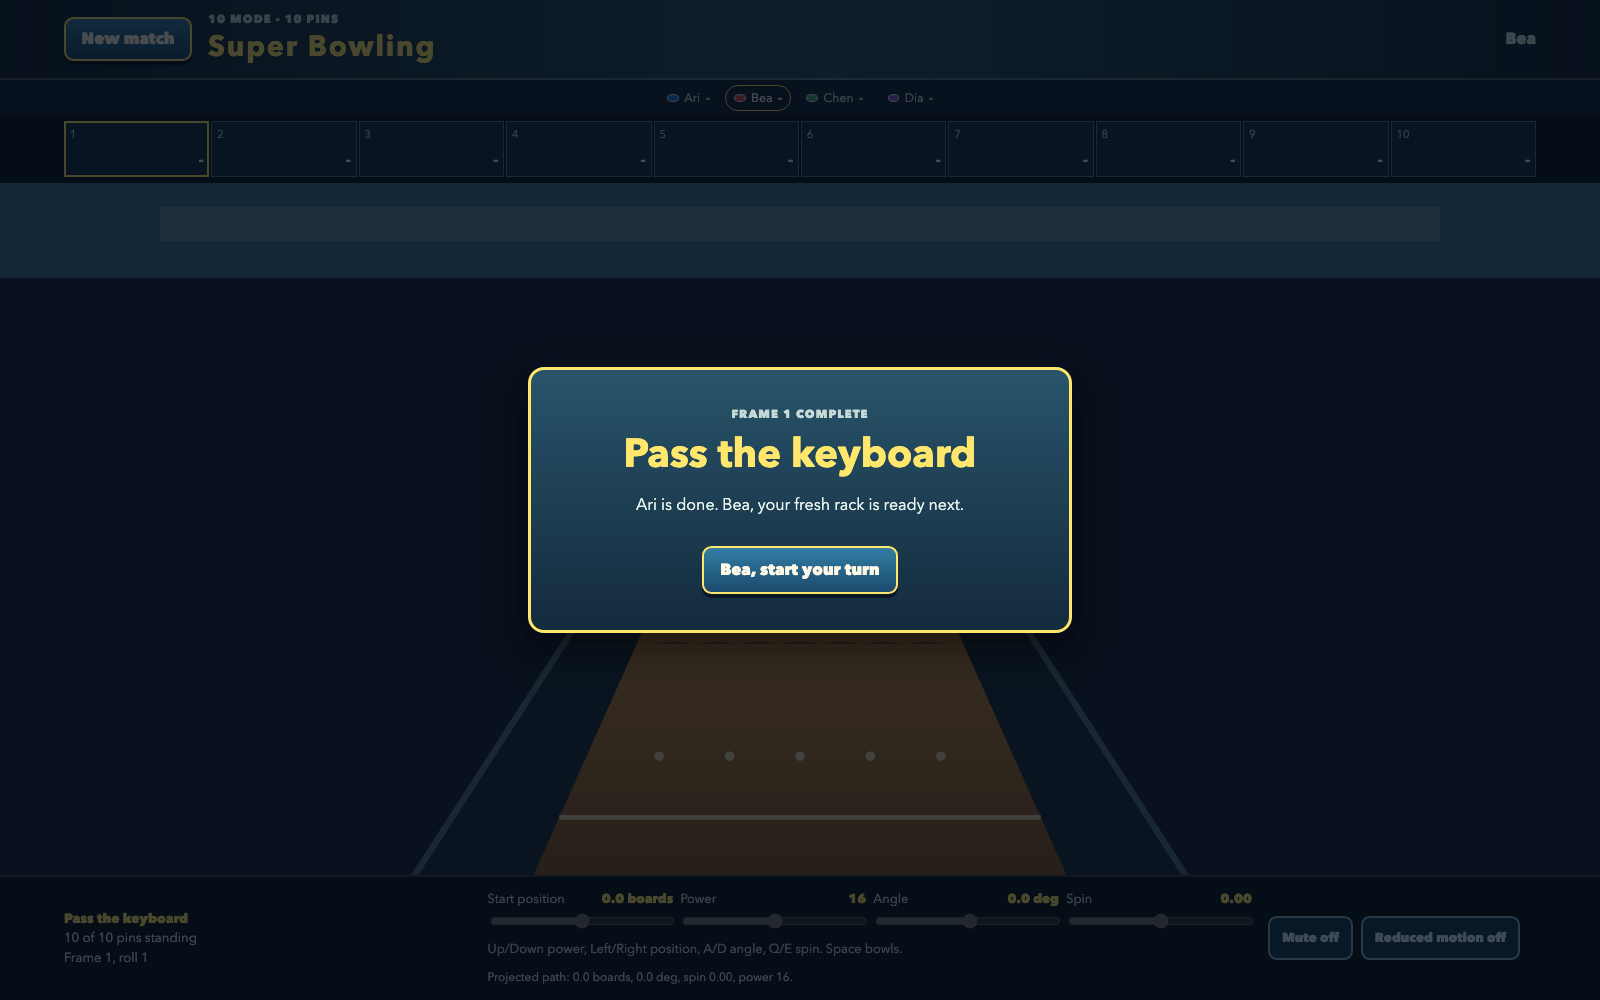
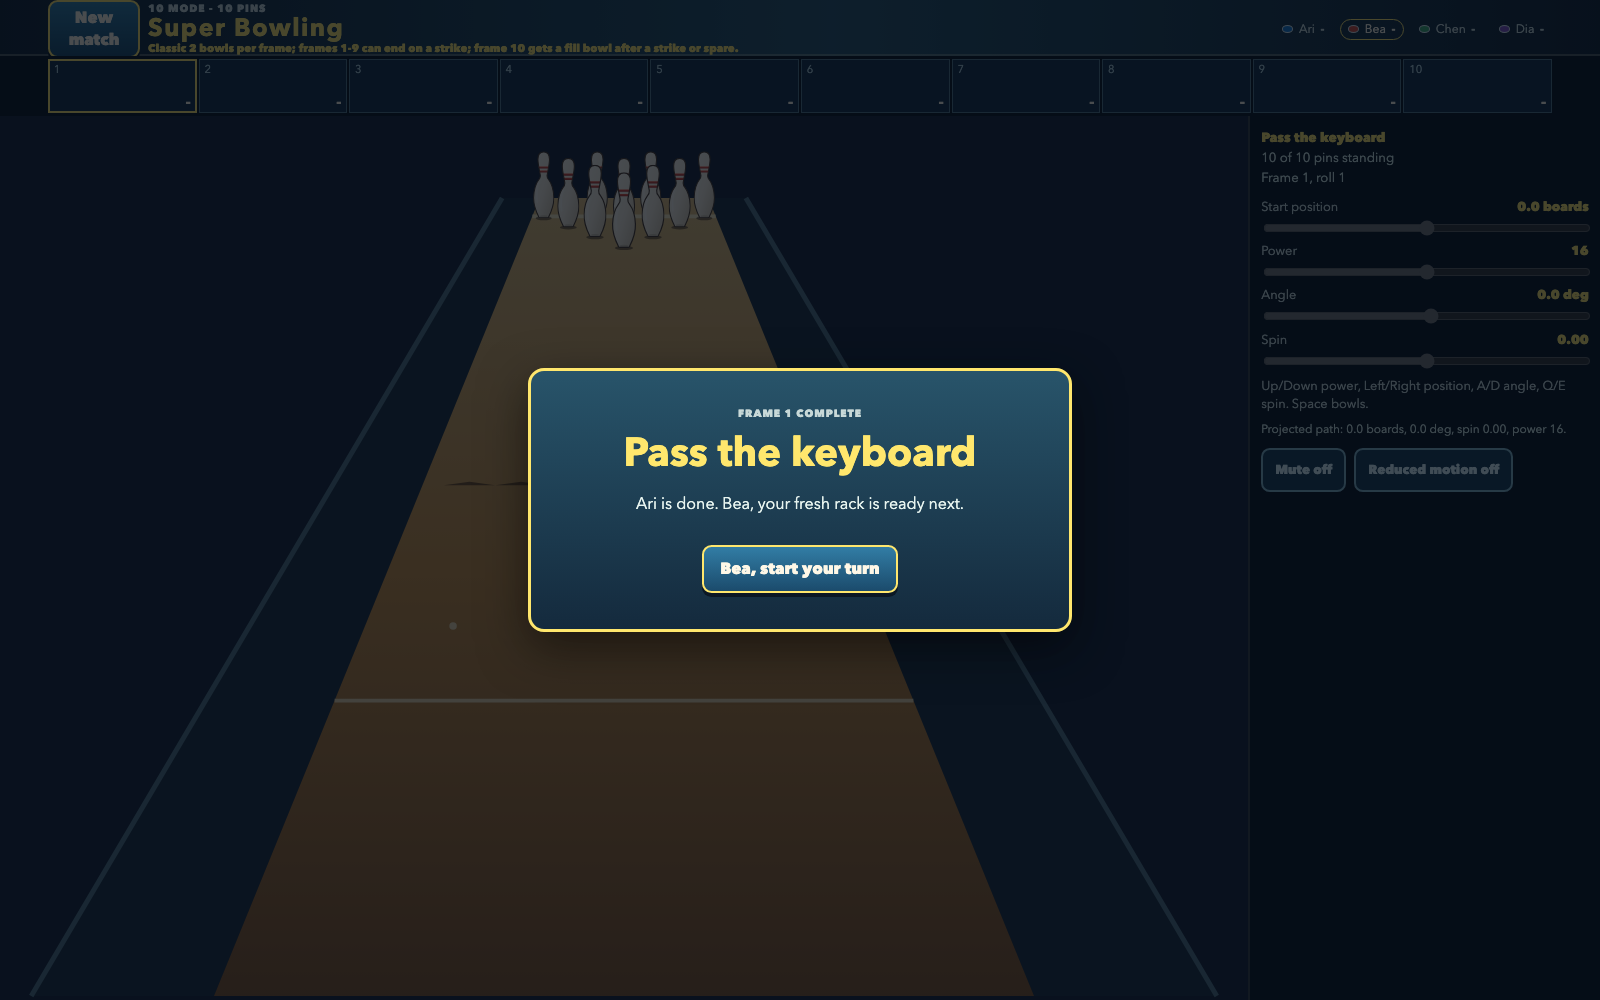
Refreshed both managed README screenshots from the shipped ... (+1 more)
- Refreshed both managed README screenshots from the shipped 1600 x 1000 browser
  build. The 990-pin aiming view and four-player handoff now show the accepted side-control layout ...
- Regenerated the managed documentation PNGs with
  `./devel/capture_screenshots.sh --documentation`; both are 1600 x 1000 and under the 1 MB documen...

diff --git a/docs/active_plans/ancient-shimmying-adleman.md b/docs/active_plans/ancient-shimmying-adleman.md
@@ -1329,3 +1329,23 @@ decisions are recorded for audit, not reopened as executable rules.
 
 Every scope question this plan raised is now classified as in scope or as a non-goal. Nothing is
 left open for a human to resolve before dispatch.
+
+## Implementation close-out (2026-08-02)
+
+All implementation milestones are complete. This plan remains in `docs/active_plans/` by current
+direction; it has not been archived or moved.
+
+| Milestone | Completed outcome | Verified evidence |
+| --- | --- | --- |
+| M3 | Frozen physics evidence reconciled without retuning. | The 990 report hashes match regenerated backstop-probe and benchmark artifacts; the 990 ball is 40 lb, supports power 60 and spin 4, and its contact-gated forward drive/anti-stall reaches the backstop. |
+| M4 | The desktop layout is frozen at 116 px of header-plus-score chrome. Controls occupy a desktop side panel, leaving a 1248 x 884 lane canvas at 1600 x 1000. | The selected `open` camera profile uses a measured 10% rear-row reveal (90% overlap). Complete-rack framing places the rack crown at 4%, aiming-ball bottom at 95%, and the lane+rack+ball span at 91%. |
+| M5 | The selected camera remains invariant through the final 10-, 105-, and 990-pin aiming, mid-roll, and settled-result captures. | All nine captures retain the 1248 x 884 canvas, 4%/95% anchors, 91% occupied span, and 10% reveal. Independent screenshot reviews accepted composition, large-rack readability, orientation, and settled-result state semantics. |
+| M6 | Fallen pins use crown-up visual canonicalization without changing truthful physics axes. | A real settled-pin integration test verifies finite canonical axes, preserved undirected axis, and no render-side mutation; independent final orientation review found no upside-down final pin. |
+| M7 | `bowls_per_frame` is a persistent bounded match setting from 1 through 5. | B=2 retains classic early-strike/conditional tenth-fill semantics; other values use the shared super-bowling flow, and frame ten always permits exactly B+1 bowls. |
+| M8 | Behavior, geometry, rules, capture tooling, and changelog documentation were refreshed. | Camera bakeoff and final state-matrix reports record the selected composition, measurements, reviewer decisions, and reproducible artifacts. |
+
+Final repository gates passed:
+
+- `./check_codebase.sh`: exit 0; Node tests 158/158.
+- `./run_playwright_tests.sh`: exit 0; Playwright tests 31/31.
+- `git diff --check`: exit 0.

diff --git a/docs/CHANGELOG.md b/docs/CHANGELOG.md
@@ -24,6 +24,14 @@
 - Canonicalized fallen-pin art to crown-up orientation while preserving the raw
   physics capsule axis.
 
+### Fixes and Maintenance
+
+- Refreshed both managed README screenshots from the shipped 1600 x 1000 browser
+  build. The 990-pin aiming view and four-player handoff now show the accepted
+  side-control layout instead of the discarded bottom control deck. Updated the
+  managed alt text and documented the repository-root rerun command in the
+  maintained capture front door.
+
 ### Decisions and Failures
 
 - Rejected the earlier tiny centered lane-and-rack island and the later
@@ -40,6 +48,9 @@
   and physics tests (21/21). The Playwright suite reached 31 tests with no
   reported failures, and maintained captures completed. `./check_codebase.sh`
   remains a required final rerun and is not claimed as complete here.
+- Regenerated the managed documentation PNGs with
+  `./devel/capture_screenshots.sh --documentation`; both are 1600 x 1000 and
+  under the 1 MB documentation-image budget.
 
 ## 2026-08-01
 

diff --git a/README.md b/README.md
@@ -7,8 +7,8 @@ curve through regulation-inspired lanes toward triangular racks from 10 to 990 p
 
 <!-- screenshots:begin (managed by screenshot-docs) -->
 
-![1,000-mode aiming lane with a 990-pin triangle, projected-path controls, regulation arrows, and a rolling ball](docs/screenshots/thousand_pin_deck.png)
-![Four-player pass-the-keyboard handoff over a fresh ten-pin lane with the four technique controls visible](docs/screenshots/pass_the_keyboard.png)
+![1,000-mode aiming view with the full 990-pin rack filling the lane and technique controls in the side panel](docs/screenshots/thousand_pin_deck.png)
+![Four-player pass-the-keyboard handoff over a fresh ten-pin lane with technique controls in the side panel](docs/screenshots/pass_the_keyboard.png)
 <!-- screenshots:end -->
 
 ## One keyboard, giant rack
